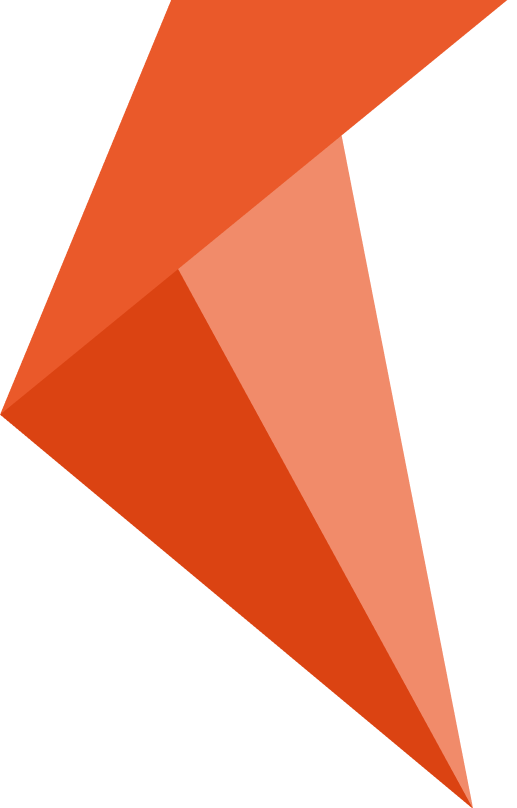
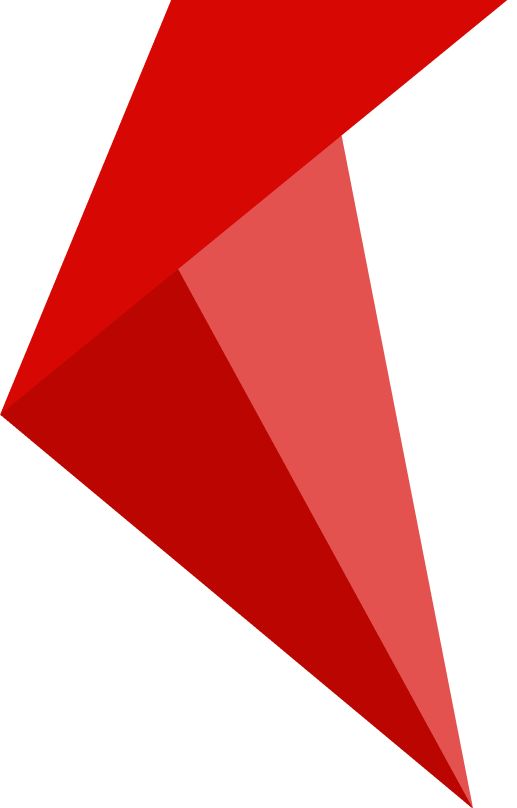
content added

diff --git a/assets/css/main.css b/assets/css/main.css
@@ -47,7 +47,7 @@ START: Default CSS
   --rr-color-common-dark: #232323;
   --rr-color-heading-primary: #171717;
   --rr-color-text-body: #6E777D;
-  --rr-color--primary: #FF6600;
+  --rr-color--primary: #ff0036;
   --rr-color--secondary: #ffc226;
   --rr-color-grey-1: #F8F8F8;
   --rr-color-border-1: #ddd;
@@ -4041,7 +4041,7 @@ START: Service CSS
   }
 }
 .service-3 .service-item .service-content .service-icon {
-  background-color: rgba(255, 102, 0, 0.1);
+  background-color: rgb(133 133 133 / 10%);
   height: 80px;
   width: 80px;
   border-radius: 50%;
@@ -6631,7 +6631,7 @@ START: Contact CSS
   margin-bottom: 45px;
 }
 .contact-box .icon {
-  background-color: rgba(255, 102, 0, 0.1);
+  background-color: rgb(133 133 133 / 10%);
   color: var(--rr-color--primary);
   width: 60px;
   height: 60px;

diff --git a/assets/scss/layout/_service.scss b/assets/scss/layout/_service.scss
@@ -181,7 +181,7 @@ START: Service CSS
                 padding: 40px 20px;
             }
             .service-icon{
-                background-color: rgba(255, 102, 0, 0.1);
+                background-color: rgb(133 133 133 / 10%);
                 height: 80px;
                 width: 80px;
                 border-radius: 50%;

diff --git a/assets/scss/layout/_contact.scss b/assets/scss/layout/_contact.scss
@@ -71,7 +71,7 @@ START: Contact CSS
         margin-bottom: 45px;
     }
     .icon{
-        background-color: rgba(255, 102, 0, 0.1);
+        background-color: rgb(133 133 133 / 10%);
         color: var(--rr-color--primary);
         width: 60px;
         height: 60px;
